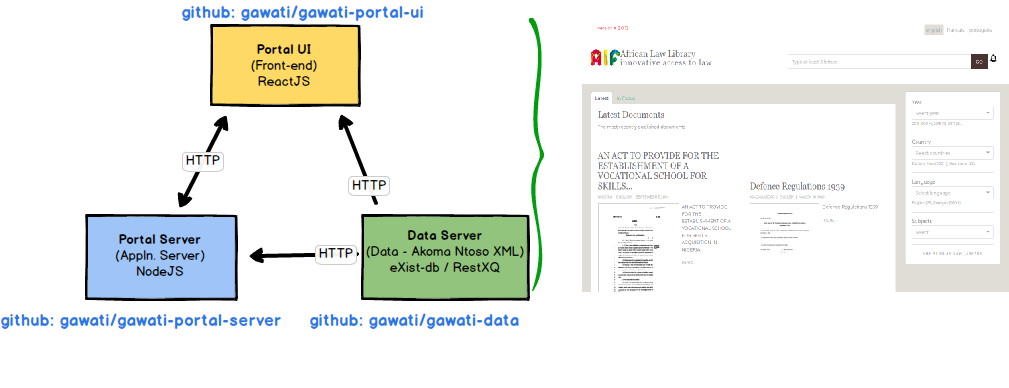
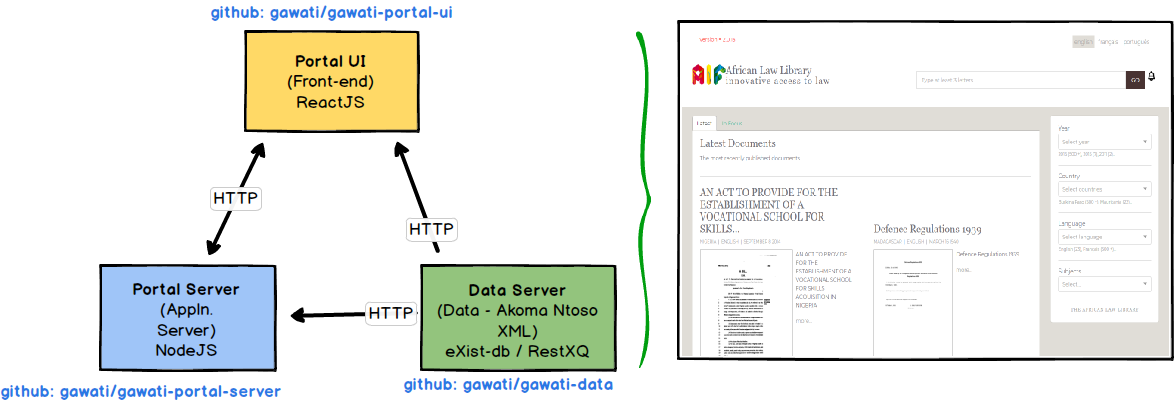
Updating diagrams

Changed region(s): [[0.0, 0.0, 1.0, 0.9588], [0.0, 0.8969, 0.2458, 0.9588], [0.7374, 0.7113, 0.7681, 0.7423]]

diff --git a/docs/source/what-is-gawati.rst b/docs/source/what-is-gawati.rst
@@ -11,7 +11,7 @@ Gawati lets you own your legal data and authenticate it via digital signatures, 
 
 Here is how Gawati works. 
 
-Your typical way to access Gawati would be via the online Portal - which supports searching and viewing legal data. 
+Your typical way to access Gawati would be via the online Portal - where you would search and view legal data. 
 
 .. figure:: ./_images/arch_portal.png
   :alt: Portal Architecture
